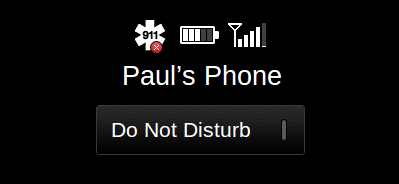
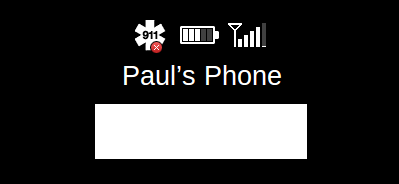
Implementation of new remote control "onRcStatus" notification
Updateed widgetPhoneView
Added new label for displaing current remote control application status
label displays which RC module is allocated and which module can be allocated

Changed region(s): [[0.2406, 0.5435, 0.782, 0.8696]]

diff --git a/app/view/home/widgetPhoneView.js b/app/view/home/widgetPhoneView.js
@@ -39,6 +39,61 @@ SDL.WidgetPhoneView = Em.ContainerView.extend({
 
   classNameBindings: [
     'SDL.FuncSwitcher.rev::is-disabled'
-  ]
+  ],
+  childViews: [
+    'rcStatusLabel',
+    'phoneStatusImage'
+  ],
+
+  phoneStatusImage: SDL.Button.extend({
+  	elementId:'phoneStatusImage',
+  	templateName:'icon',
+  	icon:'./images/home/home_phoneWidget.png'
+  }),
+
+  rcStatusLabel: SDL.Label.extend(
+			
+          {
+          	getLabelText: function(){
+
+          		if (SDL.SDLModel.appRCStatus.length == 0){
+          			return [];	
+          		} 
+          		else {
+          			var rcStatus = [];
+                    for (var key in SDL.SDLModel.appRCStatus){
+          				var model = SDL.SDLController.getApplicationModel(+key);
+          				var strHeader = model.appName+': ';
+          				rcStatus.push(strHeader);
+          				if (SDL.SDLModel.appRCStatus[+key].allocated.length > 0){
+          					var allocated = SDL.SDLModel.appRCStatus[+key].allocated;
+          					var allocatedStr = 'Allocates:';
+          					for (var i = 0; i < allocated.length; ++i) {
+          						allocatedStr += (i>0)? ', ': ' ';
+          						allocatedStr += allocated[i].moduleType.toLowerCase() ;  							 					
+          					}
+          					rcStatus.push(allocatedStr);
+          				}
+
+          				if (SDL.SDLModel.appRCStatus[+key].free.length > 0){
+          					var free = SDL.SDLModel.appRCStatus[+key].free;
+          					var freeStr = 'Can allocate:';
+          					for (var i = 0; i < free.length; ++i) {
+          						freeStr += (i>0)? ', ': ' ';
+          						freeStr += free[i].moduleType.toLowerCase() ;  							        						
+          					}
+          					rcStatus.push(freeStr);
+          				}
+          			}
+          			return rcStatus;
+          		}
+          	}.property('SDL.SDLModel.appRCStatus'),
+            elementId: 'rcStatusLabel',
+            linesBinding:'getLabelText',
+            templateName: 'multiLine'
+            //'SDL.SDLModel.appRCStatus'
+          }
+
+        )
 }
 );

diff --git a/ffw/RCRPC.js b/ffw/RCRPC.js
@@ -46,6 +46,10 @@ FFW.RC = FFW.RPCObserver.create(
      */
     errorResponsePull: {},
     /**
+     * contains method name for RCStatus_Notification
+     */
+    onRCStatusNotification: 'RC.OnRCStatus',
+    /**
      * access to basic RPC functionality
      */
     client: FFW.RPCClient.create(
@@ -84,6 +88,7 @@ FFW.RC = FFW.RPCObserver.create(
         500
       );
       this._super();
+      this.client.subscribeToNotification(this.onRCStatusNotification);
     },
     /**
      * Client is unregistered - no more requests
@@ -91,6 +96,7 @@ FFW.RC = FFW.RPCObserver.create(
     onRPCUnregistered: function() {
       Em.Logger.log('FFW.RC.onRPCUnregistered');
       this._super();
+      this.client.unsubscribeFromNotification(this.onRCStatusNotification);
     },
     /**
      * Client disconnected.
@@ -120,6 +126,28 @@ FFW.RC = FFW.RPCObserver.create(
     onRPCNotification: function(notification) {
       Em.Logger.log('FFW.RC.onRPCNotification');
       this._super();
+      switch (notification.method) {  
+        case 'RC.OnRCStatus':
+          {
+            Em.Logger.log(notification.method);
+            var appID = notification.params.appID;
+            var allocatedModules = notification.params.allocatedModules;
+            var freeModules = notification.params.freeModules;
+            var item = {
+                        allocated : allocatedModules,
+                        free : freeModules
+                       };
+            var map = SDL.deepCopy(SDL.SDLModel.appRCStatus);
+            map[appID] = item;
+            SDL.SDLModel.set('appRCStatus', map);
+            break;
+          }
+        default:
+          {
+            // statements_def
+            break;
+          }
+        }
     },
     /**
      * handle RPC requests here
@@ -418,6 +446,7 @@ FFW.RC = FFW.RPCObserver.create(
             SDL.SDLController.interiorDataConsent(request);
             break;
           }
+
           default:
           {
             // statements_def

diff --git a/app/model/SeatModel.js b/app/model/SeatModel.js
@@ -247,14 +247,14 @@ SDL.SeatModel = Em.Object.create({
    dfs:function(from, to){
  
 
-        var result = from;
+        var result = SDL.deepCopy(from);
         for (var key in from) {
             if(from.hasOwnProperty(key)){
                 if(typeof from[key] == 'object'){
                     if(Array.isArray(from[key])){
                         var lengthFrom = from[key].length;
                         var lengthTo = to[key].length;
-                        if( lengthFrom != lengthTo ){
+                        if((lengthFrom != lengthTo)){
                             result[key] = from[key];
                             continue;
                         }

diff --git a/css/home.css b/css/home.css
@@ -2,7 +2,7 @@
     position: absolute;
     width: 399px;
     height: 183px;
-    background: url("../images/home/home_phoneWidget.png") 0 0 no-repeat;
+
 }
 
 #home_widgetNavigation {
@@ -154,8 +154,25 @@
 #home_widgetMedia_tuneButtons {
     height: 40px;
     width: 120px;
-    top: 28px;
+    top: 40px;
     left: 248px;
+}
+
+#phoneStatusImage{
+    width: 399px;
+    height: 175px;
+    top : -20px;
+}
+
+
+#rcStatusLabel{
+    top: 75px;
+    left: 20px;
+    z-index: 10;
+    font-size: 15px;
+    height: 105px;
+    overflow: hidden;
+   
 }
 
 #home_widgetMedia_tuneButtons .ffw-button {

diff --git a/app/model/sdl/RModel.js b/app/model/sdl/RModel.js
@@ -90,6 +90,12 @@ SDL.RModel = SDL.SDLModel.extend({
    */
   reverseAccessMode: 'AUTO_ALLOW',
 
+
+  appRCStatus: 
+  {
+   
+  },
+
   /**
    * Method to add activation button to VR commands and set device
    * parameters to model
@@ -186,7 +192,11 @@ SDL.RModel = SDL.SDLModel.extend({
     if (SDL.SDLController.getApplicationModel(params.appID)) {
 
       this._super(params);
+      var map = SDL.deepCopy(this.appRCStatus);
+      delete map[params.appID];
+      this.set('appRCStatus', map);
     }
   }
-}
+
+  }
 );

diff --git a/app/controller/sdl/RPCController.js b/app/controller/sdl/RPCController.js
@@ -2092,6 +2092,12 @@ SDL.RPCController = Em.Object.create(
           };
           return this.resultStruct;
         },
+        OnRCStatus: function(params) {
+          this.resultStruct = {
+            'resultCode': SDL.SDLModel.data.resultCode.SUCCESS
+          };
+          return this.resultStruct;
+        },
         GetInteriorVehicleData: function(params) {
           this.resultStruct = {
             'resultCode': SDL.SDLModel.data.resultCode.SUCCESS

diff --git a/app/controlls/Label.js b/app/controlls/Label.js
@@ -44,8 +44,13 @@ SDL.Label = Em.View.extend({
       icon: Em.Handlebars.compile(
         '<img class="ico" {{bindAttr src="view.icon"}} />' +
         '<span>{{view.content}}</span>'
-      )
-    }
+      ),
+      multiLine: Em.Handlebars.compile(
+       '{{#each view.lines}}' +
+       '<span>{{this}}</span><br>' +        
+       '{{/each}}'
+     )
+    }    
 
     /** Define button template */
     /*
